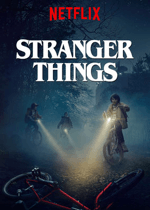
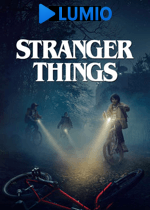
Auth Screen UI Design

Changed region(s): [[0.24, 0.0, 0.7467, 0.1143]]

diff --git a/frontend/src/pages/home/AuthScreen.jsx b/frontend/src/pages/home/AuthScreen.jsx
@@ -1,0 +1,181 @@
+import { useState } from "react";
+import { Link } from "react-router-dom";
+import { ChevronRight } from "lucide-react";
+
+const AuthScreen = () => {
+	const [email, setEmail] = useState("");
+
+
+	return (
+		<div className='hero-bg relative'>
+
+			{/* Navbar */}
+
+			<header className='max-w-6xl mx-auto flex items-center justify-between p-4 pb-10'>
+				<img src='/lumio.png' alt='Lumio Logo' className='w-32 md:w-52' />
+				<Link to={"/login"} className='text-white bg-lumio py-1 px-2 rounded'>
+					Sign In
+				</Link>
+			</header>
+
+			{/* hero section */}
+
+			<div className='flex flex-col items-center justify-center text-center py-40 text-white max-w-6xl mx-auto'>
+				<h1 className='text-4xl md:text-6xl font-bold mb-4'>Unlimited movies, TV shows, and more</h1>
+				<p className='text-lg mb-4'>Watch anywhere. Cancel anytime.</p>
+				<p className='mb-4'>Ready to watch? Enter your email to create or restart your membership.</p>
+
+				<form className='flex flex-col md:flex-row gap-4 w-1/2'>
+					<input
+						type='email'
+						placeholder='Email address'
+						className='p-2 rounded flex-1 bg-black/80 border border-gray-700'
+						value={email}
+						onChange={(e) => setEmail(e.target.value)}
+					/>
+					<button className='bg-lumio text-xl lg:text-2xl px-2 lg:px-6 py-1 md:py-2 rounded flex justify-center items-center'>
+						Get Started
+						<ChevronRight className='size-8 md:size-10' />
+					</button>
+				</form>
+			</div>
+
+			{/* separator */}
+			<div className='h-2 w-full bg-[#232323]' aria-hidden='true' />
+
+			{/* 1st section */}
+
+			<div className='py-10 bg-black text-white'>
+				<div className='flex max-w-6xl mx-auto items-center justify-center md:flex-row flex-col px-4 md:px-2'>
+					
+                    {/* left side */}
+					<div className='flex-1 text-center md:text-left'>
+						<h2 className='text-4xl md:text-5xl font-extrabold mb-4'>Enjoy on your TV</h2>
+						<p className='text-lg md:text-xl'>
+							Watch on Smart TVs, PlayStation, Xbox, Chromecast, Apple TV, Blu-ray players, and more.
+						</p>
+					</div>
+					
+                    {/* right side */}
+					<div className='flex-1 relative'>
+						<img src='/tv.png' alt='Tv image' className='mt-4 z-20 relative' />
+						<video
+							className='absolute top-1/2 left-1/2 -translate-x-1/2 -translate-y-1/2 h-1/2 z-10'
+							playsInline
+							autoPlay={true}
+							muted
+							loop
+						>
+							<source src='/hero-vid.m4v' type='video/mp4' />
+						</video>
+					</div>
+				</div>
+			</div>
+
+			{/* separator */}
+			<div className='h-2 w-full bg-[#232323]' aria-hidden='true' />
+
+			{/* 2nd section */}
+
+			<div className='py-10 bg-black text-white'>
+				<div className='flex max-w-6xl mx-auto items-center justify-center md:flex-row flex-col-reverse px-4 md:px-2'>
+					
+                    {/* left side */}
+					<div className='flex-1 relative'>
+						<div className='relative'>
+							<img src='/stranger-things-lg.jpg' alt='Stranger Things img' className='mt-4' />
+
+							<div
+								className='flex items-center gap-2 absolute bottom-5 left-1/2 -translate-x-1/2 bg-black
+              w-3/4 lg:w-1/2 h-24 border border-slate-500 rounded-md px-2
+              '
+							>
+								<img src='/stranger-things-sm.png' alt='image' className='h-full' />
+								<div className=' flex justify-between items-center w-full'>
+									<div className='flex flex-col gap-0'>
+										<span className='text-md lg:text-lg font-bold'>Stranger Things</span>
+										<span className='text-sm text-blue-500'>Downloading...</span>
+									</div>
+
+									<img src='/download-icon.gif' alt='' className='h-12' />
+								</div>
+							</div>
+						</div>
+					</div>
+					
+                    {/* right side */}
+					<div className='flex-1 md:text-left text-center'>
+						<h2 className='text-4xl md:text-5xl font-extrabold mb-4 text-balance'>
+							Download your shows to watch offline
+						</h2>
+						<p className='text-lg md:text-xl'>
+							Save your favorites easily and always have something to watch.
+						</p>
+					</div>
+				</div>
+			</div>
+
+			{/* separator */}
+			<div className='h-2 w-full bg-[#232323]' aria-hidden='true' />
+
+			{/* 3rd section */}
+
+			<div className='py-10 bg-black text-white'>
+				<div className='flex max-w-6xl mx-auto items-center justify-center md:flex-row flex-col px-4 md:px-2'>
+					
+                    {/* left side */}
+					<div className='flex-1 text-center md:text-left'>
+						<h2 className='text-4xl md:text-5xl font-extrabold mb-4'>Watch everywhere</h2>
+						<p className='text-lg md:text-xl'>
+							Stream unlimited movies and TV shows on your phone, tablet, laptop, and TV.
+						</p>
+					</div>
+
+					{/* right side */}
+					<div className='flex-1 relative overflow-hidden'>
+						<img src='/device-pile.png' alt='Device image' className='mt-4 z-20 relative' />
+						<video
+							className='absolute top-2 left-1/2 -translate-x-1/2  h-4/6 z-10
+               max-w-[63%] 
+              '
+							playsInline
+							autoPlay={true}
+							muted
+							loop
+						>
+							<source src='/video-devices.m4v' type='video/mp4' />
+						</video>
+					</div>
+				</div>
+			</div>
+
+			<div className='h-2 w-full bg-[#232323]' aria-hidden='true' />
+
+			{/* 4th section*/}
+
+			<div className='py-10 bg-black text-white'>
+				<div
+					className='flex max-w-6xl mx-auto items-center justify-center flex-col-reverse md:flex-row
+           px-4 md:px-2
+        '
+				>
+					
+                    {/* left */}
+					<div className='flex-1 relative'>
+						<img src='/kids.png' alt='Enjoy on your TV' className='mt-4' />
+					</div>
+					
+                    {/* right */}
+					<div className='flex-1 text-center md:text-left'>
+						<h2 className='text-4xl md:text-5xl font-extrabold mb-4'>Create profiles for kids</h2>
+						<p className='text-lg md:text-xl'>
+							Send kids on adventures with their favorite characters in a space made just for them—free
+							with your membership.
+						</p>
+					</div>
+				</div>
+			</div>
+		</div>
+	);
+};
+export default AuthScreen;

diff --git a/frontend/src/components/Footer.jsx b/frontend/src/components/Footer.jsx
@@ -1,0 +1,29 @@
+const Footer = () => {
+	return (
+		<footer className='py-6 md:px-8 md:py-0 bg-black text-white border-t border-gray-800'>
+			<div className='flex flex-col items-center justify-between gap-4 md:h-24 md:flex-row'>
+				<p className='text-balance text-center text-sm leading-loose text-muted-foreground md:text-left'>
+					Built by{" "}
+					<a
+						href='https://github.com/tktizi'
+						target='_blank'
+						className='font-medium underline underline-offset-4'
+					>
+						tktizi
+					</a>
+					. The source code is available on{" "}
+					<a
+						href='https://github.com/tktizi/Lumio'
+						target='_blank'
+						rel='noreferrer'
+						className='font-medium underline underline-offset-4'
+					>
+						GitHub
+					</a>
+					.
+				</p>
+			</div>
+		</footer>
+	);
+};
+export default Footer;

diff --git a/frontend/src/App.jsx b/frontend/src/App.jsx
@@ -1,7 +1,8 @@
 import { Route, Routes } from "react-router-dom";
-import HomePage from "./pages/HomePage";
+import HomePage from "./pages/home/HomePage";
 import LoginPage from "./pages/LoginPage";
 import SignUpPage from "./pages/SignUpPage";
+import Footer from "./components/Footer";
 
 function App() {
   return (
@@ -11,6 +12,8 @@ function App() {
 				<Route path='/login' element={<LoginPage />} />
 				<Route path='/signup' element={<SignUpPage />} />
 			</Routes>
+
+			<Footer/>
 		</>
 	);
 }

diff --git a/frontend/src/pages/home/HomePage.jsx b/frontend/src/pages/home/HomePage.jsx
@@ -1,0 +1,13 @@
+import AuthScreen from "./AuthScreen";
+import HomeScreen from "./HomeScreen";
+
+const HomePage = () => {
+    const user = false;
+
+  return (
+     <div>
+        {user ? <HomeScreen /> : <AuthScreen />}
+    </div> 
+)
+};
+export default HomePage;

diff --git a/frontend/src/pages/home/HomeScreen.jsx b/frontend/src/pages/home/HomeScreen.jsx
@@ -1,0 +1,4 @@
+const HomeScreen = () => {
+  return <div>HomeScreen</div>
+};
+export default HomeScreen;
